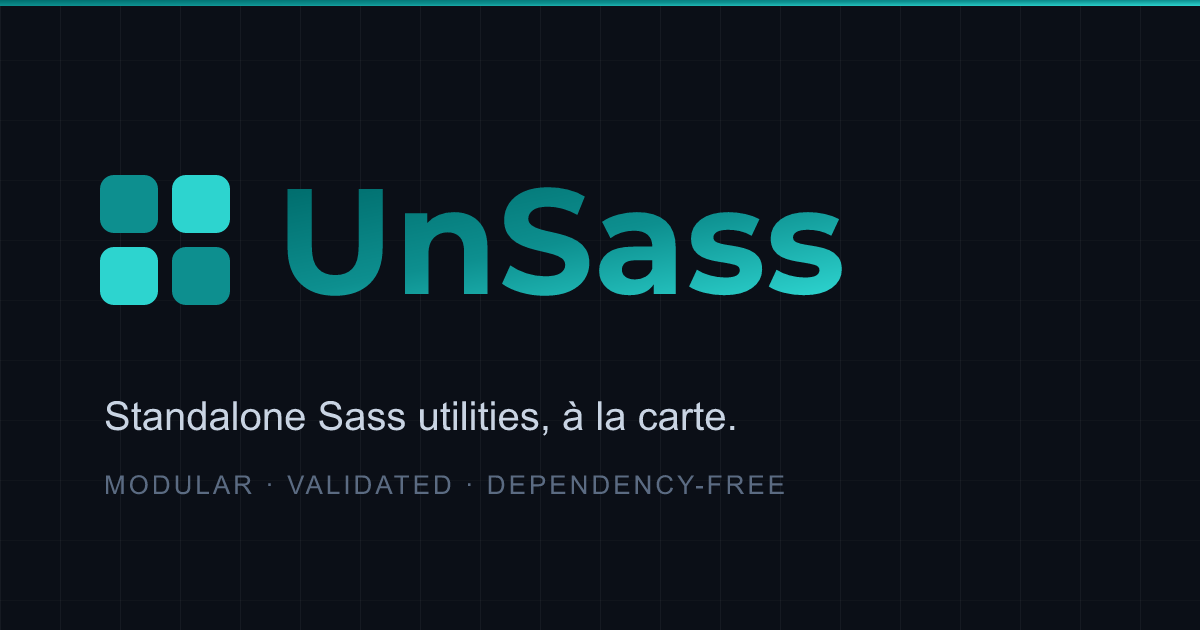
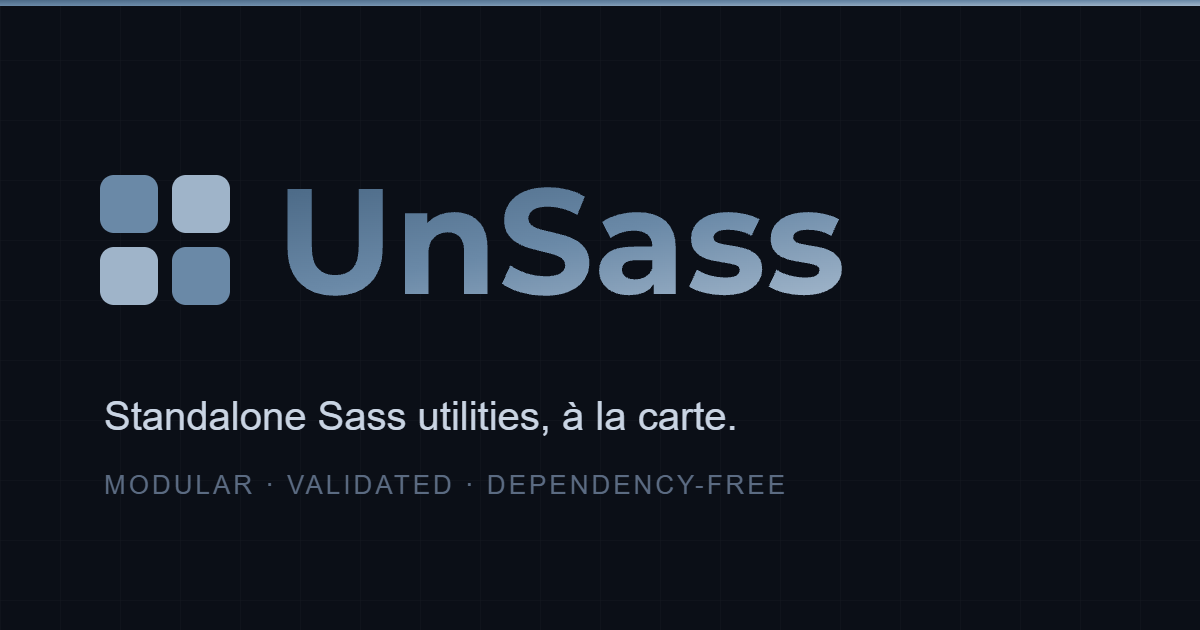
feat(theme): switch brand color to slate blue #6a89a7
Logo, favicons, og-image and theme-color move to #6a89a7. In light mode
text and buttons use the darker #56738f to pass WCAG AA (4.74:1, white
on it 4.95:1); the dark theme uses #9fb4c9 (8.84:1).

diff --git a/.vitepress/theme/styles.css b/.vitepress/theme/styles.css
@@ -1,24 +1,27 @@
 /* ============================================================================================= */
 /*                                        UNSASS — THEME                                          */
-/*  Rebrands @frontfactory/vitepress-theme with the UnSass accent (darkcyan / teal) and display   */
+/*  Rebrands @frontfactory/vitepress-theme with the UnSass accent (slate blue #6a89a7) and display */
 /*  font. Every value is a --ff-* custom property — see the theme's README for the full list.     */
 /* ============================================================================================= */
 
+/* #6a89a7 is the brand colour (logo, favicon, og-image). On the light paper it only reaches 3.5:1,  */
+/* so text and buttons use a darker shade of the same hue to pass WCAG AA (4.74:1; white on it      */
+/* 4.95:1); hover goes darker still. The dark theme's tint already clears 8.8:1.                    */
 :root {
-    --ff-color-accent: #008b8b;
-    --ff-color-accent-hover: #0aa1a1;
-    --ff-color-accent-soft: rgba(0, 139, 139, 0.09);
-    --ff-color-accent-glow: rgba(0, 139, 139, 0.16);
+    --ff-color-accent: #56738f;
+    --ff-color-accent-hover: #4f6a85;
+    --ff-color-accent-soft: rgba(106, 137, 167, 0.09);
+    --ff-color-accent-glow: rgba(106, 137, 167, 0.16);
 
     --ff-font-display: 'Montserrat Variable', ui-sans-serif, system-ui, sans-serif;
 }
 
 .dark {
-    --ff-color-accent: #2dd4cf;
-    --ff-color-accent-hover: #5eb1c7;
+    --ff-color-accent: #9fb4c9;
+    --ff-color-accent-hover: #b7c8d9;
     --ff-color-accent-contrast: #06121e;
-    --ff-color-accent-soft: rgba(45, 212, 207, 0.13);
-    --ff-color-accent-glow: rgba(45, 212, 207, 0.2);
+    --ff-color-accent-soft: rgba(159, 180, 201, 0.13);
+    --ff-color-accent-glow: rgba(159, 180, 201, 0.2);
 }
 
 /* Feature cards: the icon reads too small next to the numbered index — match its 2rem size.     */

diff --git a/.vitepress/config.ts b/.vitepress/config.ts
@@ -101,7 +101,7 @@ export default defineConfig({
         ['link', { rel: 'icon', type: 'image/svg+xml', href: '/favicon.svg' }],
         ['link', { rel: 'icon', type: 'image/x-icon', href: '/favicon.ico', sizes: 'any' }],
         ['link', { rel: 'apple-touch-icon', href: '/apple-touch-icon.png' }],
-        ['meta', { name: 'theme-color', content: '#008b8b' }],
+        ['meta', { name: 'theme-color', content: '#6a89a7' }],
         ['meta', { property: 'og:type', content: 'website' }],
         ['meta', { property: 'og:site_name', content: 'UnSass' }],
         ['meta', { property: 'og:locale', content: 'en_US' }],
